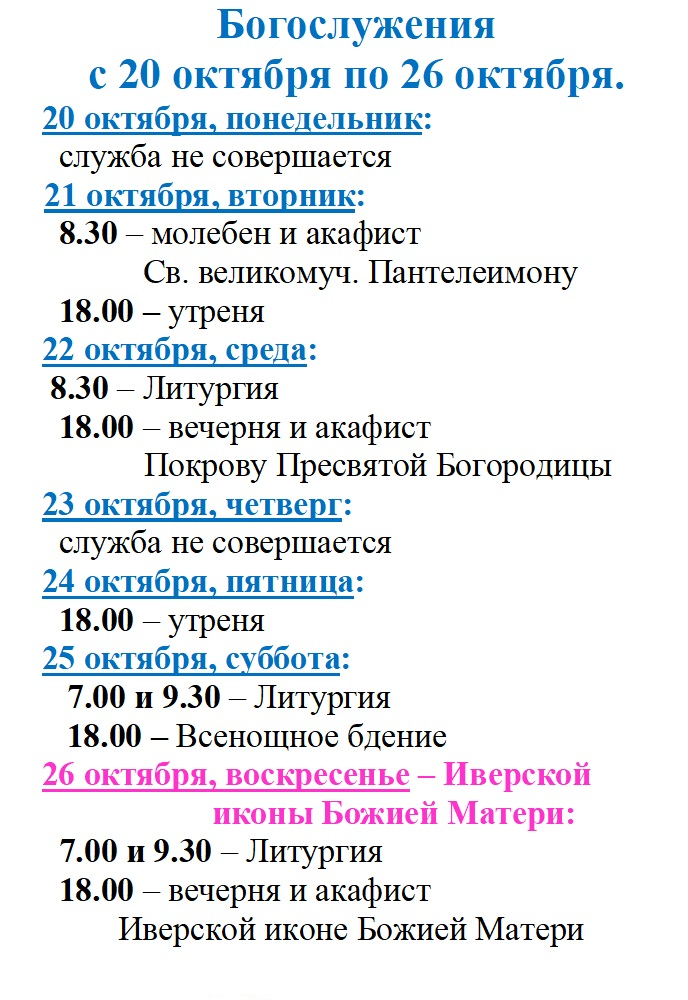
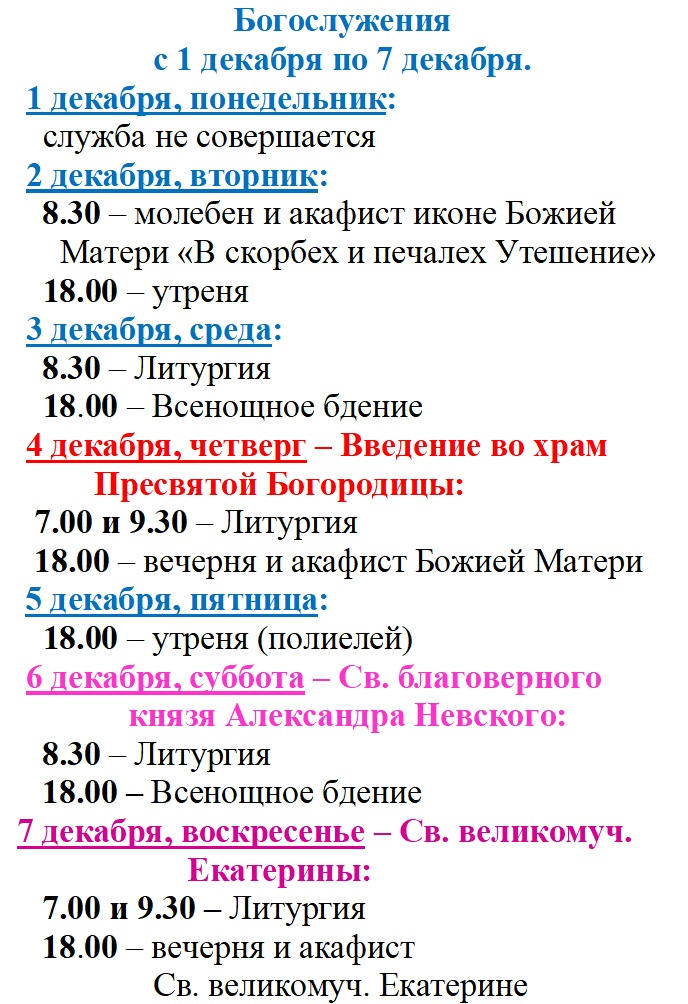
Update

Changed region(s): [[0.0305, 0.0, 0.9462, 1.0]]

diff --git a/calendartek.html b/calendartek.html
@@ -186,9 +186,9 @@
 									<div class="slider__item">
 										<img src="img/raspisanie/r2.jpg" alt="Расписание 2">
 									</div>
-  									<!-- <div class="slider__item">
+  									<div class="slider__item">
 										<img src="img/raspisanie/r3.jpg" alt="Расписание 3">
-									</div> -->
+									</div><!--  -->
 									<div class="slider__item">
 										<img src="img/raspisanie/04.jpg" alt="Объявление 1">
 									</div>
